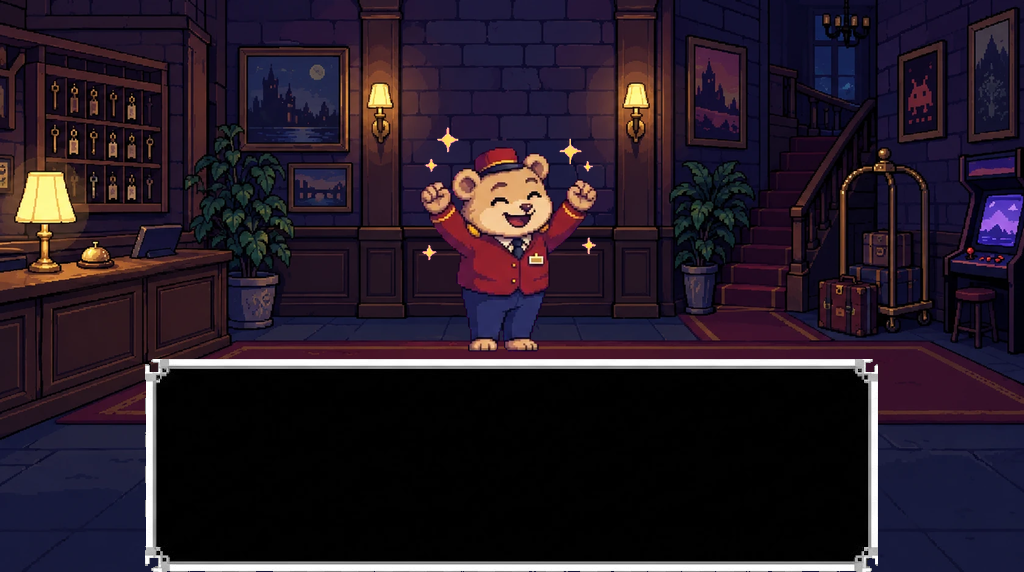
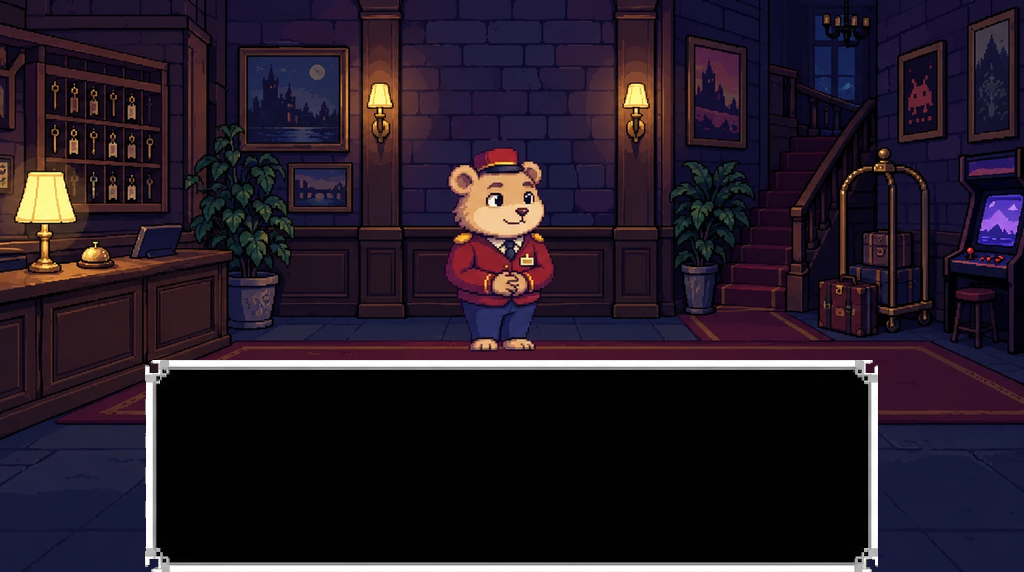
feat(ui): lobi arka planı eklendi, diyalog kutusunun alt kenar kırıntısı temizlendi, önizleme güncellendi

Changed region(s): [[0.125, 0.2378, 0.875, 0.6538], [0.125, 0.951, 0.8438, 1.0], [0.8438, 0.951, 0.875, 0.9808]]

diff --git a/docs/ui-varliklari.md b/docs/ui-varliklari.md
@@ -7,7 +7,8 @@ Danışmanla konuşma ekranı: karanlık piksel sanat bir ofis sahnesi, masanın
 | Dosya | Boyut | Ne |
 |---|---|---|
 | `sahne.png` | 1024x572 | Arka plan: tuğla duvar, pencere, "KAGZY" tabelası, masa, sandalye, lamba, açık kapı |
-| `diyalog.png` | 733x213 | Beyaz çerçeveli, siyah iç diyalog kutusu (şeffaf dış kenar) |
+| `diyalog.png` | 733x212 | Beyaz çerçeveli, siyah iç diyalog kutusu (şeffaf dış kenar) |
+| `lobi.png` | 1678x937 | Oyun üretme ekranının arka planı: otel lobisi (GPT ile, ilk sahneyle aynı stil). Ortası ayı için boş; zemin çizgisi yaklaşık %60 yükseklikte |
 | `danisman/*.png` | 222x199 (hepsi) | Danışmanın ifadeleri; tümü aynı tuvalde, karakter her karede aynı yerde |
 
 Üretim: kullanıcının gönderdiği damalı (sahte şeffaf) resimler `tools/remove_checkerboard.py` ile gerçek şeffaf PNG'ye çevrildi. Aracı çalıştırmak için `Pillow` gerekir (yalnızca geliştirme makinesinde; uygulama yalnızca tkinter kullanır).
@@ -47,7 +48,7 @@ Sahnede yaklaşık 0.75 ölçekle (200 piksel boy) iyi oturuyor; en yakın komş
 | `hata` | Elleri yanaklarında, ter damlası | Bir şey ters gitti (Ollama cevap vermedi, indirme hatası) |
 | `emin_degil` | Omuz silkiyor | Test maddesi doğrulanamadı; uygun model/cevap bulunamadı |
 
-Önizleme: `docs/onizleme-lobi.png` (yeni lobi arka planı + `basari` karesi + diyalog kutusu).
+Önizleme: `docs/onizleme-lobi.png` (lobi arka planı 1024x572'ye küçültülmüş + `bosta` karesi 0.75 ölçekle + diyalog kutusu). Ayı lobinin loş ışığına göre biraz parlak; sahneye koyarken hafifçe koyulaştırılacak.
 
 ## Diyalog kutusu kuralı
 Sıra tek tarafta olur, ikisi aynı anda konuşmaz:
@@ -56,7 +57,7 @@ Sıra tek tarafta olur, ikisi aynı anda konuşmaz:
 - Kutunun içi simsiyah olduğu için yazı açık renkte olmalı.
 
 ## Birleştirirken karara bağlanacaklar
-- Karakterin kendi hokkası ve tüy kalemi var; sahnede masada başka bir tüy kalem/hokka da var. Çakışırsa sahnedeki silinir ya da karakterinki kullanılır.
+- Danışman ekranındaki karakterin kendi hokkası ve tüy kalemi var; sahnede masada başka bir tüy kalem/hokka da var. Çakışırsa sahnedeki silinir ya da karakterinki kullanılır. (Ayı ekranında bu sorun yok: lobi ayrı bir sahne.)
 - Sahne ve karakterin piksel boyutları farklı olabilir; yerleştirirken karakter ölçeklenir (en yakın komşu ile, bulanıklaşmasın).
 - Yazı tipi: piksel sanata uygun bir yazı tipi gerekebilir (lisansı uygun olanı).
 - Zil, defter ve kapı gibi sahne nesnelerinin tıklanabilir bir işi olup olmayacağı ayrı bir konu (şimdilik yok sayılıyor).

diff --git a/docs/HAFIZA.md b/docs/HAFIZA.md
@@ -22,7 +22,7 @@ Kullanıcının kendi bilgisayarında Ollama ile yerel yapay zekaya oyun yaptır
 
 ## Durum
 - Brainstorming bitti, spec yazıldı; kullanıcı spec'i henüz onaylamadı. Onaydan sonra `writing-plans`.
-- UI görselleri (sahne, diyalog kutusu, 9 danışman karesi, 12 ayı karesi) hazır ve repoda (CP-1..CP-3). Üretim ekranı için ayrı arka plan kullanıcı tarafından hazırlanıyor (GPT ile). Başlangıç, kütüphane ve düzenleme ekranlarının görselleri henüz yok.
+- UI görselleri (sahne, diyalog kutusu, 9 danışman karesi, 12 ayı karesi) hazır ve repoda (CP-1..CP-3). Üretim ekranının arka planı (otel lobisi, `lobi.png`) eklendi (CP-5). Başlangıç, kütüphane ve düzenleme ekranlarının görselleri henüz yok.
 - Henüz uygulama kodu yok.
 
 ## Kullanıcıyla çalışma
